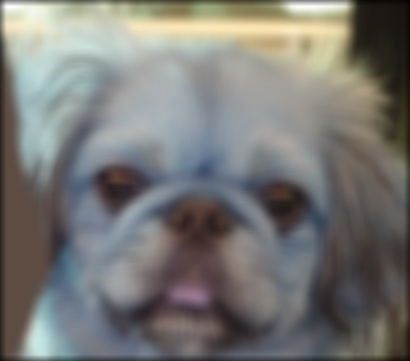
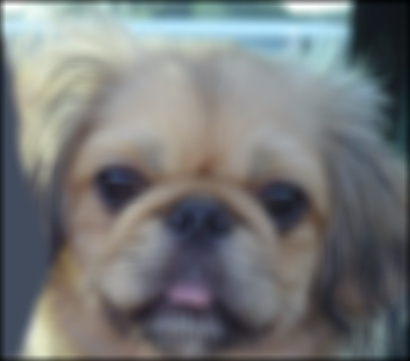
fixing images bgr to rgb

diff --git a/Mini-Project 1/code/proj1_bonus.py b/Mini-Project 1/code/proj1_bonus.py
@@ -104,7 +104,11 @@ vis = vis_hybrid_image(hybrid_image[0])
 vis2 = vis_hybrid_image(hybrid_image[1])
 to_normalize=[low_frequencies[0],high_frequencies[0],low_frequencies[1],high_frequencies[1],hybrid_image[1],hybrid_image[0],vis,vis2]
 normalized=normalize_images(to_normalize)
+#normalized[0]=cv2.cvtColor(((normalized[0])), cv2.COLOR_BGR2RGB) 
+#normalized[2]=cv2.cvtColor(((normalized[2])), cv2.COLOR_BGR2RGB) 
+
 names=['low_frequencies1.jpg','high_frequencies1.jpg','low_frequencies2.jpg','high_frequencies2.jpg','hybrid_image12.jpg','hybrid_image21.jpg','hybrid_image_scales12.jpg','hybrid_image_scales21.jpg']
 for i,j in zip(normalized,names):
-    cv2.imwrite(resultsDir+j, i)
+    im=cv2.cvtColor(((i)), cv2.COLOR_BGR2RGB) 
+    cv2.imwrite(resultsDir+j, im)
 #-------------------------------------------------------------------------#

diff --git a/Mini-Project 1/code/helpers.py b/Mini-Project 1/code/helpers.py
@@ -119,7 +119,7 @@ def gen_hybrid_image(image1: np.ndarray, image2: np.ndarray, cutoff_frequency: f
   
   # Your code here:
   low_frequencies = [my_imfilter(image1, kernel,fft), my_imfilter(image2, kernel,fft)]
-
+  
   # (2) Remove the low frequencies from image2. The easiest way to do this is to
   #     subtract a blurred version of image2 from the original version of image2.
   #     This will give you an image centered at zero with negative values.

diff --git a/Mini-Project 1/code/proj1_part2.py b/Mini-Project 1/code/proj1_part2.py
@@ -65,7 +65,8 @@ if not os.path.exists(resultsDir):
 print('start saving')
 print(len(normalized))
 for i,j in zip(normalized,names):
-    cv2.imwrite(resultsDir+j, i)
+    im=cv2.cvtColor(((i)), cv2.COLOR_BGR2RGB) 
+    cv2.imwrite(resultsDir+j, im)
 
 print('saving successful')
 #-------------------------------------------------------------------------#
